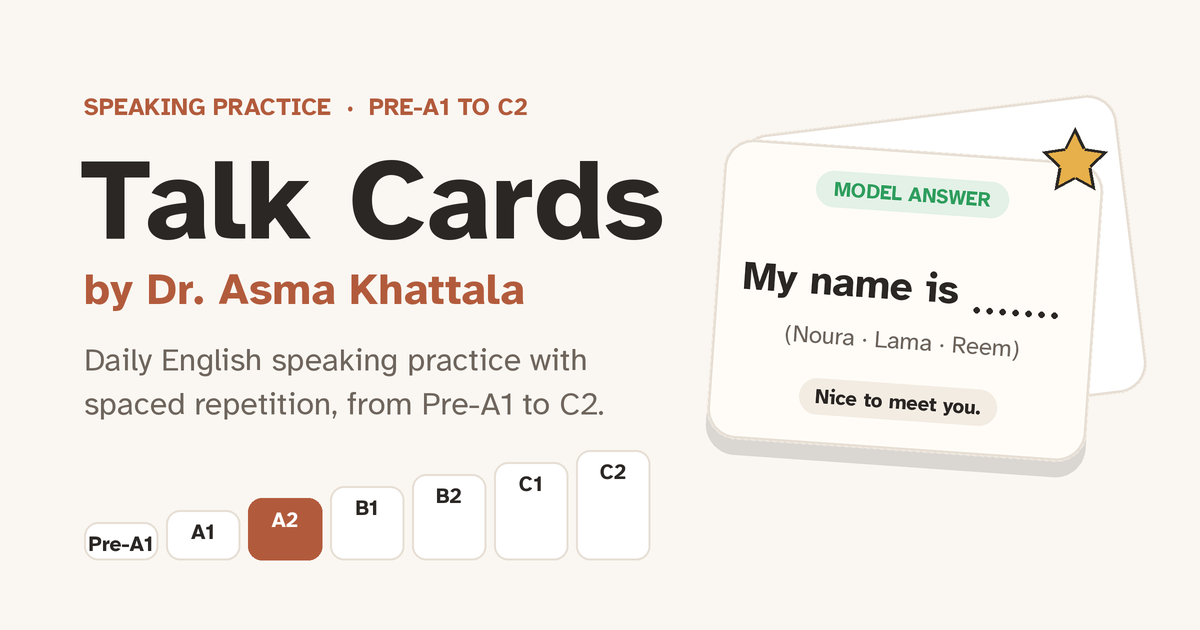
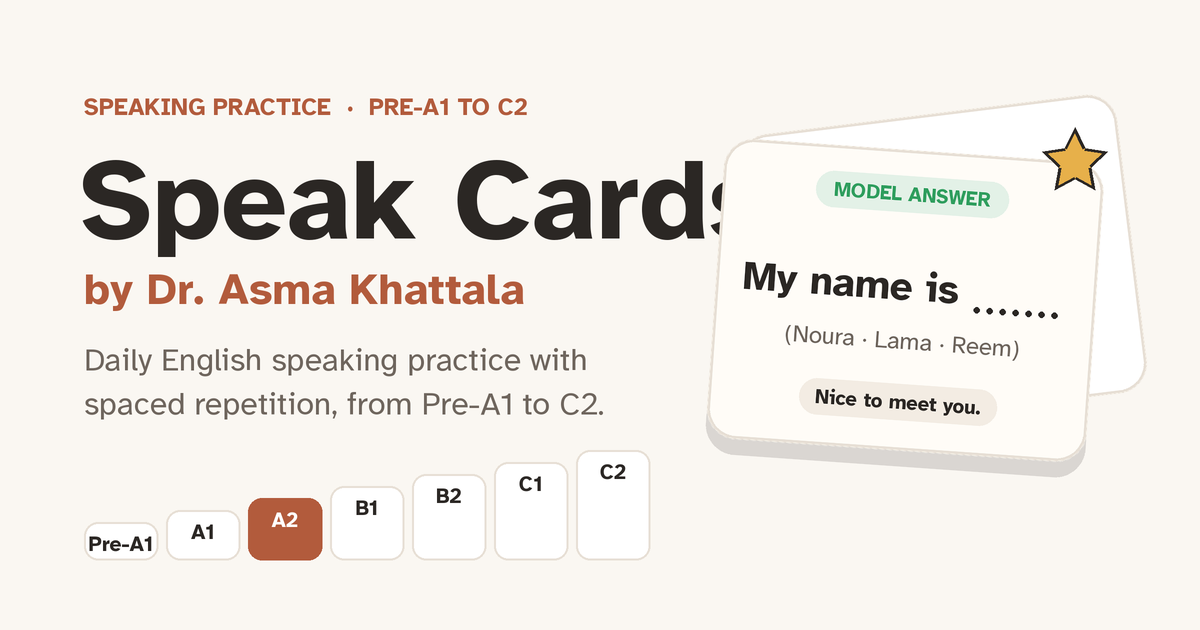
Rename to Speak Cards (cache v7); new link preview image

Changed region(s): [[0.0617, 0.2413, 0.6167, 0.4222]]

diff --git a/app.js b/app.js
@@ -1,4 +1,4 @@
-/* Talk Cards by Dr. Asma Khattala
+/* Speak Cards (named Talk Cards until 12 Oct 2026) by Dr. Asma Khattala
    Daily English speaking practice with spaced repetition, Pre-A1 to C2. Plain JavaScript, no libraries.
    Built from the engine of Maria's Talk Cards (~/Downloads/anki): flip card, Again / Good, the 1-2-4-8-16-32-64
    day ladder, warm-up, tricky ones, recorded voice with word highlighting, device voice as fallback.
@@ -11,7 +11,7 @@ const PARAMS = new URLSearchParams(location.search);
 const DEV = PARAMS.get('dev') === '1';
 const CONFIG = Object.assign({ apiUrl: '', appUrl: 'https://asmaasma1111.github.io/epp-talk-cards/' }, window.EPP_CONFIG || {});
 const KEY = { state: 'epp:state', outbox: 'epp:outbox', classes: 'epp:classes', dev: 'epp:devOffset', feedback: 'epp:feedback' };
-const APP_VERSION = 'v6';   // shown in feedback rows; keep in step with sw.js
+const APP_VERSION = 'v7';   // shown in feedback rows; keep in step with sw.js
 const INTERVAL = [0, 1, 2, 4, 8, 16, 32, 64];          // days until next review, by box (Maria's ladder)
 const SPEEDS = { slow: 0.75, standard: 0.85, normal: 0.95 };
 const CLIP_SPEEDS = { slow: 0.88, standard: 1, normal: 1.12 };
@@ -24,7 +24,7 @@ const QUICK_FLIP = 3000;    // flipped in under 3 s: a sign of tapping through
 const BATCH = 200;          // events per request
 const REC_MAX = 120;        // a recording stops by itself after 2 minutes
 const STAR_FLIGHT = 560;
-const SHARE_TITLE = 'Talk Cards by Dr. Asma Khattala';
+const SHARE_TITLE = 'Speak Cards by Dr. Asma Khattala';
 const SHARE_TEXT = 'Daily English speaking practice with spaced repetition, from Pre-A1 to C2.';
 const SIZES = { S: 0.88, M: 1, L: 1.16 };
 const reduced = () => matchMedia('(prefers-reduced-motion: reduce)').matches;
@@ -1353,11 +1353,11 @@ async function drawCertificate(levelId) {
   x.textAlign = 'center'; x.textBaseline = 'alphabetic';
   x.fillStyle = '#B25B3C'; x.font = `700 34px ${EN}`;
   try { x.letterSpacing = '6px'; } catch (e) {}
-  x.fillText('TALK CARDS', W / 2, 180);
+  x.fillText('SPEAK CARDS', W / 2, 180);
   try { x.letterSpacing = '0px'; } catch (e) {}
   x.fillStyle = '#2B2724'; x.font = `700 96px ${EN}`; x.fillText('Star Certificate', W / 2, 300);
   x.fillStyle = '#6E655D'; x.font = `400 40px ${EN}`; x.fillText('This certificate is awarded to', W / 2, 390);
-  const name = st.me.name || 'A Talk Cards student';
+  const name = st.me.name || 'A Speak Cards student';
   let fs = 92;
   x.font = `700 ${fs}px ${EN}`;
   while (x.measureText(name).width > W - 360 && fs > 40) { fs -= 4; x.font = `700 ${fs}px ${EN}`; }
@@ -1414,7 +1414,7 @@ async function certSave() {
 async function certShare() {
   if (!certCanvas) return;
   const f = await certFile();
-  const text = `I finished Level ${LEVEL[certLevel].code} on Talk Cards!`;
+  const text = `I finished Level ${LEVEL[certLevel].code} on Speak Cards!`;
   if (navigator.canShare && navigator.canShare({ files: [f] })) {
     try { await navigator.share({ files: [f], title: SHARE_TITLE, text }); } catch (e) {}
     return;
@@ -1720,7 +1720,7 @@ function saveDetails() {
 function backup() {
   save();
   const data = JSON.stringify({ app: 'epp-talk-cards', v: 1, saved: new Date().toISOString(), state: st, outbox: readOutbox() });
-  const name = `talk-cards-backup-${today()}.json`;
+  const name = `speak-cards-backup-${today()}.json`;
   let file = null;
   try { file = new File([data], name, { type: 'application/json' }); } catch (e) {}
   if (file && isIOS() && navigator.canShare && navigator.canShare({ files: [file] })) { navigator.share({ files: [file] }).catch(() => {}); return; }
@@ -1738,7 +1738,7 @@ async function restore(file) {
       writeOutbox([...readOutbox(), ...obj.outbox.filter(e => e && e.id && !have.has(e.id))]);
     }
     toast('Progress restored.'); renderSettings(); Sync.flush();
-  } catch (e) { toast('That file is not a Talk Cards progress file.'); }
+  } catch (e) { toast('That file is not a Speak Cards progress file.'); }
 }
 
 /* ---------- My recordings: her own answers, newest first, kept on this phone ---------- */

diff --git a/index.html b/index.html
@@ -3,26 +3,26 @@
 <head>
 <meta charset="utf-8">
 <meta name="viewport" content="width=device-width, initial-scale=1, viewport-fit=cover">
-<title>Talk Cards by Dr. Asma Khattala</title>
+<title>Speak Cards by Dr. Asma Khattala</title>
 <meta name="description" content="Daily English speaking practice with spaced repetition, from Pre-A1 to C2.">
 <meta name="author" content="Dr. Asma Khattala">
 <meta property="og:type" content="website">
-<meta property="og:title" content="Talk Cards by Dr. Asma Khattala">
+<meta property="og:title" content="Speak Cards by Dr. Asma Khattala">
 <meta property="og:description" content="Daily English speaking practice with spaced repetition, from Pre-A1 to C2.">
 <meta property="og:url" content="https://asmaasma1111.github.io/epp-talk-cards/">
 <meta property="og:image" content="https://asmaasma1111.github.io/epp-talk-cards/og-image.png">
 <meta property="og:image:width" content="1200">
 <meta property="og:image:height" content="630">
-<meta property="og:image:alt" content="Talk Cards by Dr. Asma Khattala: flip cards for speaking practice, levels Pre-A1 to C2">
+<meta property="og:image:alt" content="Speak Cards by Dr. Asma Khattala: flip cards for speaking practice, levels Pre-A1 to C2">
 <meta name="twitter:card" content="summary_large_image">
-<meta name="twitter:title" content="Talk Cards by Dr. Asma Khattala">
+<meta name="twitter:title" content="Speak Cards by Dr. Asma Khattala">
 <meta name="twitter:description" content="Daily English speaking practice with spaced repetition, from Pre-A1 to C2.">
 <meta name="twitter:image" content="https://asmaasma1111.github.io/epp-talk-cards/og-image.png">
 <meta name="theme-color" content="#F6F8FF">
 <meta name="apple-mobile-web-app-capable" content="yes">
 <meta name="mobile-web-app-capable" content="yes">
 <meta name="apple-mobile-web-app-status-bar-style" content="default">
-<meta name="apple-mobile-web-app-title" content="Talk Cards">
+<meta name="apple-mobile-web-app-title" content="Speak Cards">
 <link rel="canonical" href="https://asmaasma1111.github.io/epp-talk-cards/">
 <link rel="manifest" href="manifest.json">
 <link rel="apple-touch-icon" href="apple-touch-icon.png">
@@ -55,7 +55,7 @@
 <section id="welcome" class="screen scroll" hidden>
   <div class="wrap center">
     <img class="welcome-icon" src="icon-192.png" alt="" width="112" height="112">
-    <h1 class="title">Talk Cards</h1>
+    <h1 class="title">Speak Cards</h1>
     <p class="lead">Speak English a little every day: short cards, model answers and your own voice.</p>
     <p class="lead ar" lang="ar" dir="rtl">تدرّبي على التحدث بالإنجليزية قليلًا كل يوم.</p>
     <button id="welcomeBtn" class="btn btn-primary wide">Get started</button>
@@ -131,7 +131,7 @@
     </div>
     <button class="ladder" id="ladder" aria-label="All levels"></button>
     <div id="homeTip" class="tip" hidden>
-      <p><b>Keep your progress safe:</b> add Talk Cards to your Home Screen. Tap <b>Share</b>, then <b>Add to Home Screen</b>.</p>
+      <p><b>Keep your progress safe:</b> add Speak Cards to your Home Screen. Tap <b>Share</b>, then <b>Add to Home Screen</b>.</p>
       <button id="tipClose" class="icon-btn tip-close" aria-label="Close this tip"><svg aria-hidden="true"><use href="#i-close"/></svg></button>
     </div>
     <button id="recsBtn" class="btn btn-soft recs-btn"><svg aria-hidden="true"><use href="#i-mic"/></svg>My recordings</button>
@@ -264,7 +264,7 @@
   <a href="https://www.linkedin.com/in/dr-asma-khattala/" target="_blank" rel="noopener">Designed by Dr. Asma Khattala</a>
   <div class="foot-btns">
     <button class="share-btn" id="feedbackBtn" aria-label="Send feedback"><svg aria-hidden="true"><use href="#i-chat"/></svg>Feedback</button>
-    <button class="share-btn" id="shareBtn" aria-label="Share Talk Cards"><svg aria-hidden="true"><use href="#i-share"/></svg>Share</button>
+    <button class="share-btn" id="shareBtn" aria-label="Share Speak Cards"><svg aria-hidden="true"><use href="#i-share"/></svg>Share</button>
   </div>
 </footer>
 

diff --git a/privacy.html b/privacy.html
@@ -3,8 +3,8 @@
 <head>
 <meta charset="utf-8">
 <meta name="viewport" content="width=device-width, initial-scale=1, viewport-fit=cover">
-<title>Privacy policy · Talk Cards</title>
-<meta name="description" content="What Talk Cards keeps, what it sends to the teacher, and what it never sends.">
+<title>Privacy policy · Speak Cards</title>
+<meta name="description" content="What Speak Cards keeps, what it sends to the teacher, and what it never sends.">
 <meta name="robots" content="noindex">
 <link rel="icon" type="image/png" href="icon-192.png">
 <meta name="theme-color" content="#F6F8FF">
@@ -43,7 +43,7 @@
 <div class="wrap">
   <header>
     <img src="icon-192.png" alt="">
-    <div><h1>Talk Cards</h1><p>Privacy policy · <span lang="ar">سياسة الخصوصية</span></p></div>
+    <div><h1>Speak Cards</h1><p>Privacy policy · <span lang="ar">سياسة الخصوصية</span></p></div>
   </header>
   <div class="lang" role="group" aria-label="Language">
     <button type="button" id="btnEn" aria-pressed="true">English</button>
@@ -52,7 +52,7 @@
 
   <article class="doc" id="en">
     <p class="date">Last updated: 12 October 2026</p>
-    <p>Talk Cards is a free web app for daily English speaking practice, made by Dr. Asma Khattala for her students. This page says what the app keeps, what it sends to the teacher, and what it never sends.</p>
+    <p>Speak Cards is a free web app for daily English speaking practice, made by Dr. Asma Khattala for her students. This page says what the app keeps, what it sends to the teacher, and what it never sends.</p>
 
     <div class="key never"><p><b>Your voice recordings never leave your phone.</b> They are kept only on your phone (the newest 300), and you can listen to them or delete them at any time from <b>My recordings</b>.</p></div>
 
@@ -103,7 +103,7 @@
 
   <article class="doc" id="ar" lang="ar" dir="rtl" hidden>
     <p class="date">آخر تحديث: ١٢ أكتوبر ٢٠٢٦</p>
-    <p>Talk Cards تطبيق ويب مجاني للتدرّب اليومي على التحدّث بالإنجليزية، أعدّته د. أسماء ختالة لطالباتها. تشرح هذه الصفحة ما يحتفظ به التطبيق، وما يرسله إلى المعلمة، وما لا يرسله أبدًا.</p>
+    <p>Speak Cards تطبيق ويب مجاني للتدرّب اليومي على التحدّث بالإنجليزية، أعدّته د. أسماء ختالة لطالباتها. تشرح هذه الصفحة ما يحتفظ به التطبيق، وما يرسله إلى المعلمة، وما لا يرسله أبدًا.</p>
 
     <div class="key never"><p><b>تسجيلات صوتكِ لا تغادر هاتفكِ أبدًا.</b> تبقى على هاتفكِ فقط (آخر ٣٠٠ تسجيل)، ويمكنكِ سماعها أو حذفها في أي وقت من <b>My recordings</b>.</p></div>
 
@@ -152,7 +152,7 @@
     <p>اسألي معلمتكِ في المدرسة، أو راسلي <a href="https://www.linkedin.com/in/dr-asma-khattala/" target="_blank" rel="noopener">د. أسماء ختالة على LinkedIn</a>.</p>
   </article>
 
-  <a class="back" href="./">← Back to Talk Cards</a>
+  <a class="back" href="./">← Back to Speak Cards</a>
 </div>
 <script>
   (function () {

diff --git a/sw.js b/sw.js
@@ -1,10 +1,10 @@
-/* Offline cache for Talk Cards by Dr. Asma Khattala (adapted from Maria's Talk Cards sw.js).
+/* Offline cache for Speak Cards by Dr. Asma Khattala (adapted from Maria's Talk Cards sw.js).
    Several apps share asmaasma1111.github.io, so this app's caches all start with "epp-talk-cards-" and only
    those are ever deleted. Bump VERSION when app.js, style.css or index.html change.
    Level files, config.js and the voice list are refreshed in the background, so a new set reaches phones
    on the next open without a version bump. */
 const PREFIX = 'epp-talk-cards-';
-const VERSION = PREFIX + 'v6';
+const VERSION = PREFIX + 'v7';
 const LEVEL_FILES = ['pre-a1', 'a1', 'a2', 'b1', 'b2', 'c1', 'c2'].map(l => `levels/${l}.json`);
 const FILES = [
   './',
